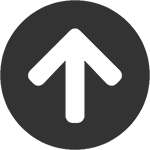
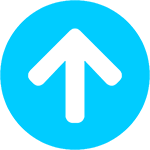
v1_14 (new color in section)

diff --git a/src/sass/aboutMe.scss b/src/sass/aboutMe.scss
@@ -1,20 +1,27 @@
 #aboutMe{
     position: absolute;
-    background-color: rgba(255,255,255,0.99);
+    background-color: rgba(0, 0, 0, 0.8);
     padding: 50px 0;
     padding-top: 10px;
     width: 100%;
-
+    border-top-right-radius: 50%;
+    border-top-left-radius: 50%;
+    @media all and (max-width: 700px){
+        &{
+            border-top-right-radius: 20%;
+    border-top-left-radius: 20%;
+        }
+    }
     h1{
         text-align: center;
-        border: 4px solid rgba(0,0,0,0.8);
+        border: 4px solid rgba(0,204,255, 1);
         max-width: 350px;
         margin: 0 auto;
         margin-top: 50px;
         margin-bottom: 30px;
         padding: 20px;
-        color: rgba(0,0,0,0.8);
-        background-color: white;
+        color: rgba(0,204,255,1);
+        background-color: rgba(0, 0, 0, 0.6);
         transition-property: background-color, color, border, border-radius;
         transition-duration: 0.5s;
         transition-timing-function: ease;
@@ -28,8 +35,8 @@
     }
     h2{
         text-align: center;
-        background-color: rgba(0,0,0,0.8);
-        color: white;
+        background-color: rgb(0,204,255);
+        color: rgb(0, 0, 0);
         padding: 5px;
         font-size: 1.5rem;
         border-bottom-left-radius: 20px;
@@ -38,7 +45,7 @@
     
     p{
         text-align: justify;
-        
+        color: rgba(255, 255, 255, 0.9);
     }
 
     .arrow{
@@ -58,17 +65,20 @@
 }
 
 .noActive{
-    transform: translate(0, -11vh);
+    transform: translate(0, -120px);
     transition-property: transform;
     transition-duration: 0.5s;
     transition-timing-function: ease;
+
+    
+
+    
 
     @media all and (max-width: 510px){
         &{
             transform: translate(0, 0);
         }
     }
-
     
 }
 

diff --git a/public/index.html b/public/index.html
@@ -15,7 +15,7 @@
   <title>Hubert Mazur - portfolio</title>
 </head>
 
-<body>
+<body class="black">
   <div id="root"></div>
 </body>
 

diff --git a/src/sass/contact.scss b/src/sass/contact.scss
@@ -1,4 +1,4 @@
-#aboutMe{
+#contact{
     position: absolute;
     background-color: rgba(255,255,255,0.99);
     padding: 50px 0;

diff --git a/src/sass/skills.scss b/src/sass/skills.scss
@@ -1,4 +1,4 @@
-#aboutMe{
+#skills{
     position: absolute;
     background-color: rgba(255,255,255,0.99);
     padding: 50px 0;

diff --git a/src/sass/app.scss b/src/sass/app.scss
@@ -1,0 +1,3 @@
+.black{
+    background-color: black;
+}
